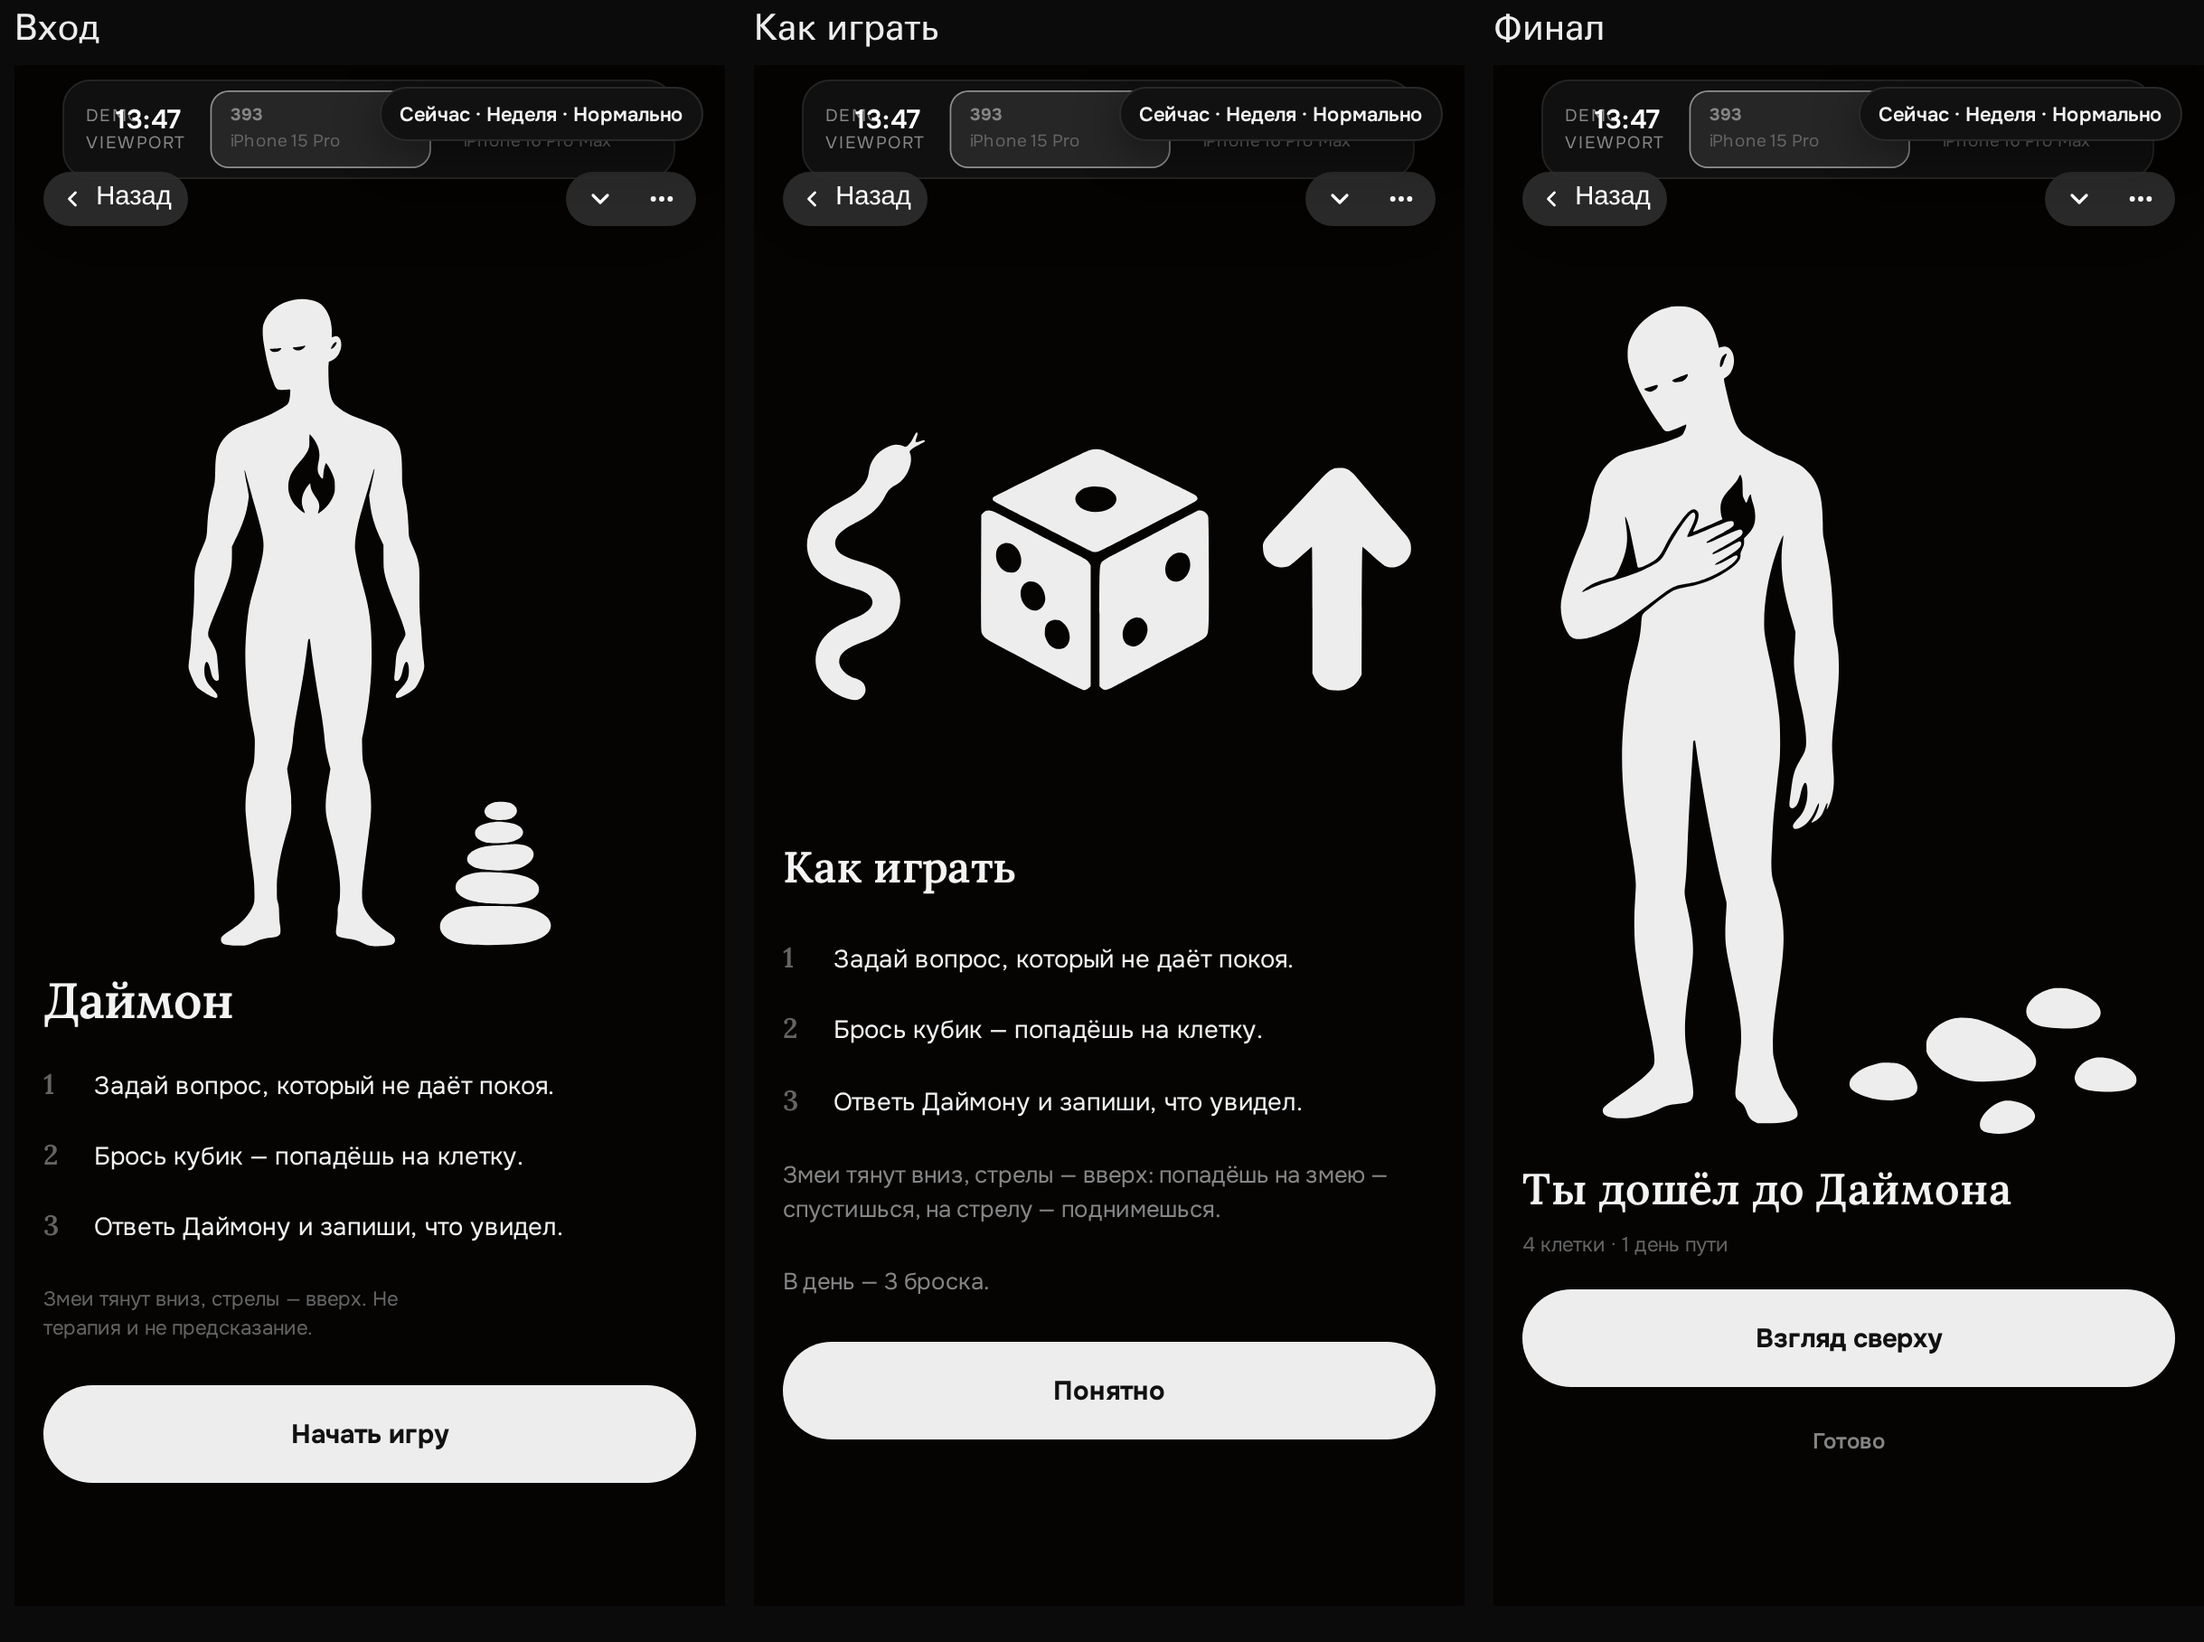
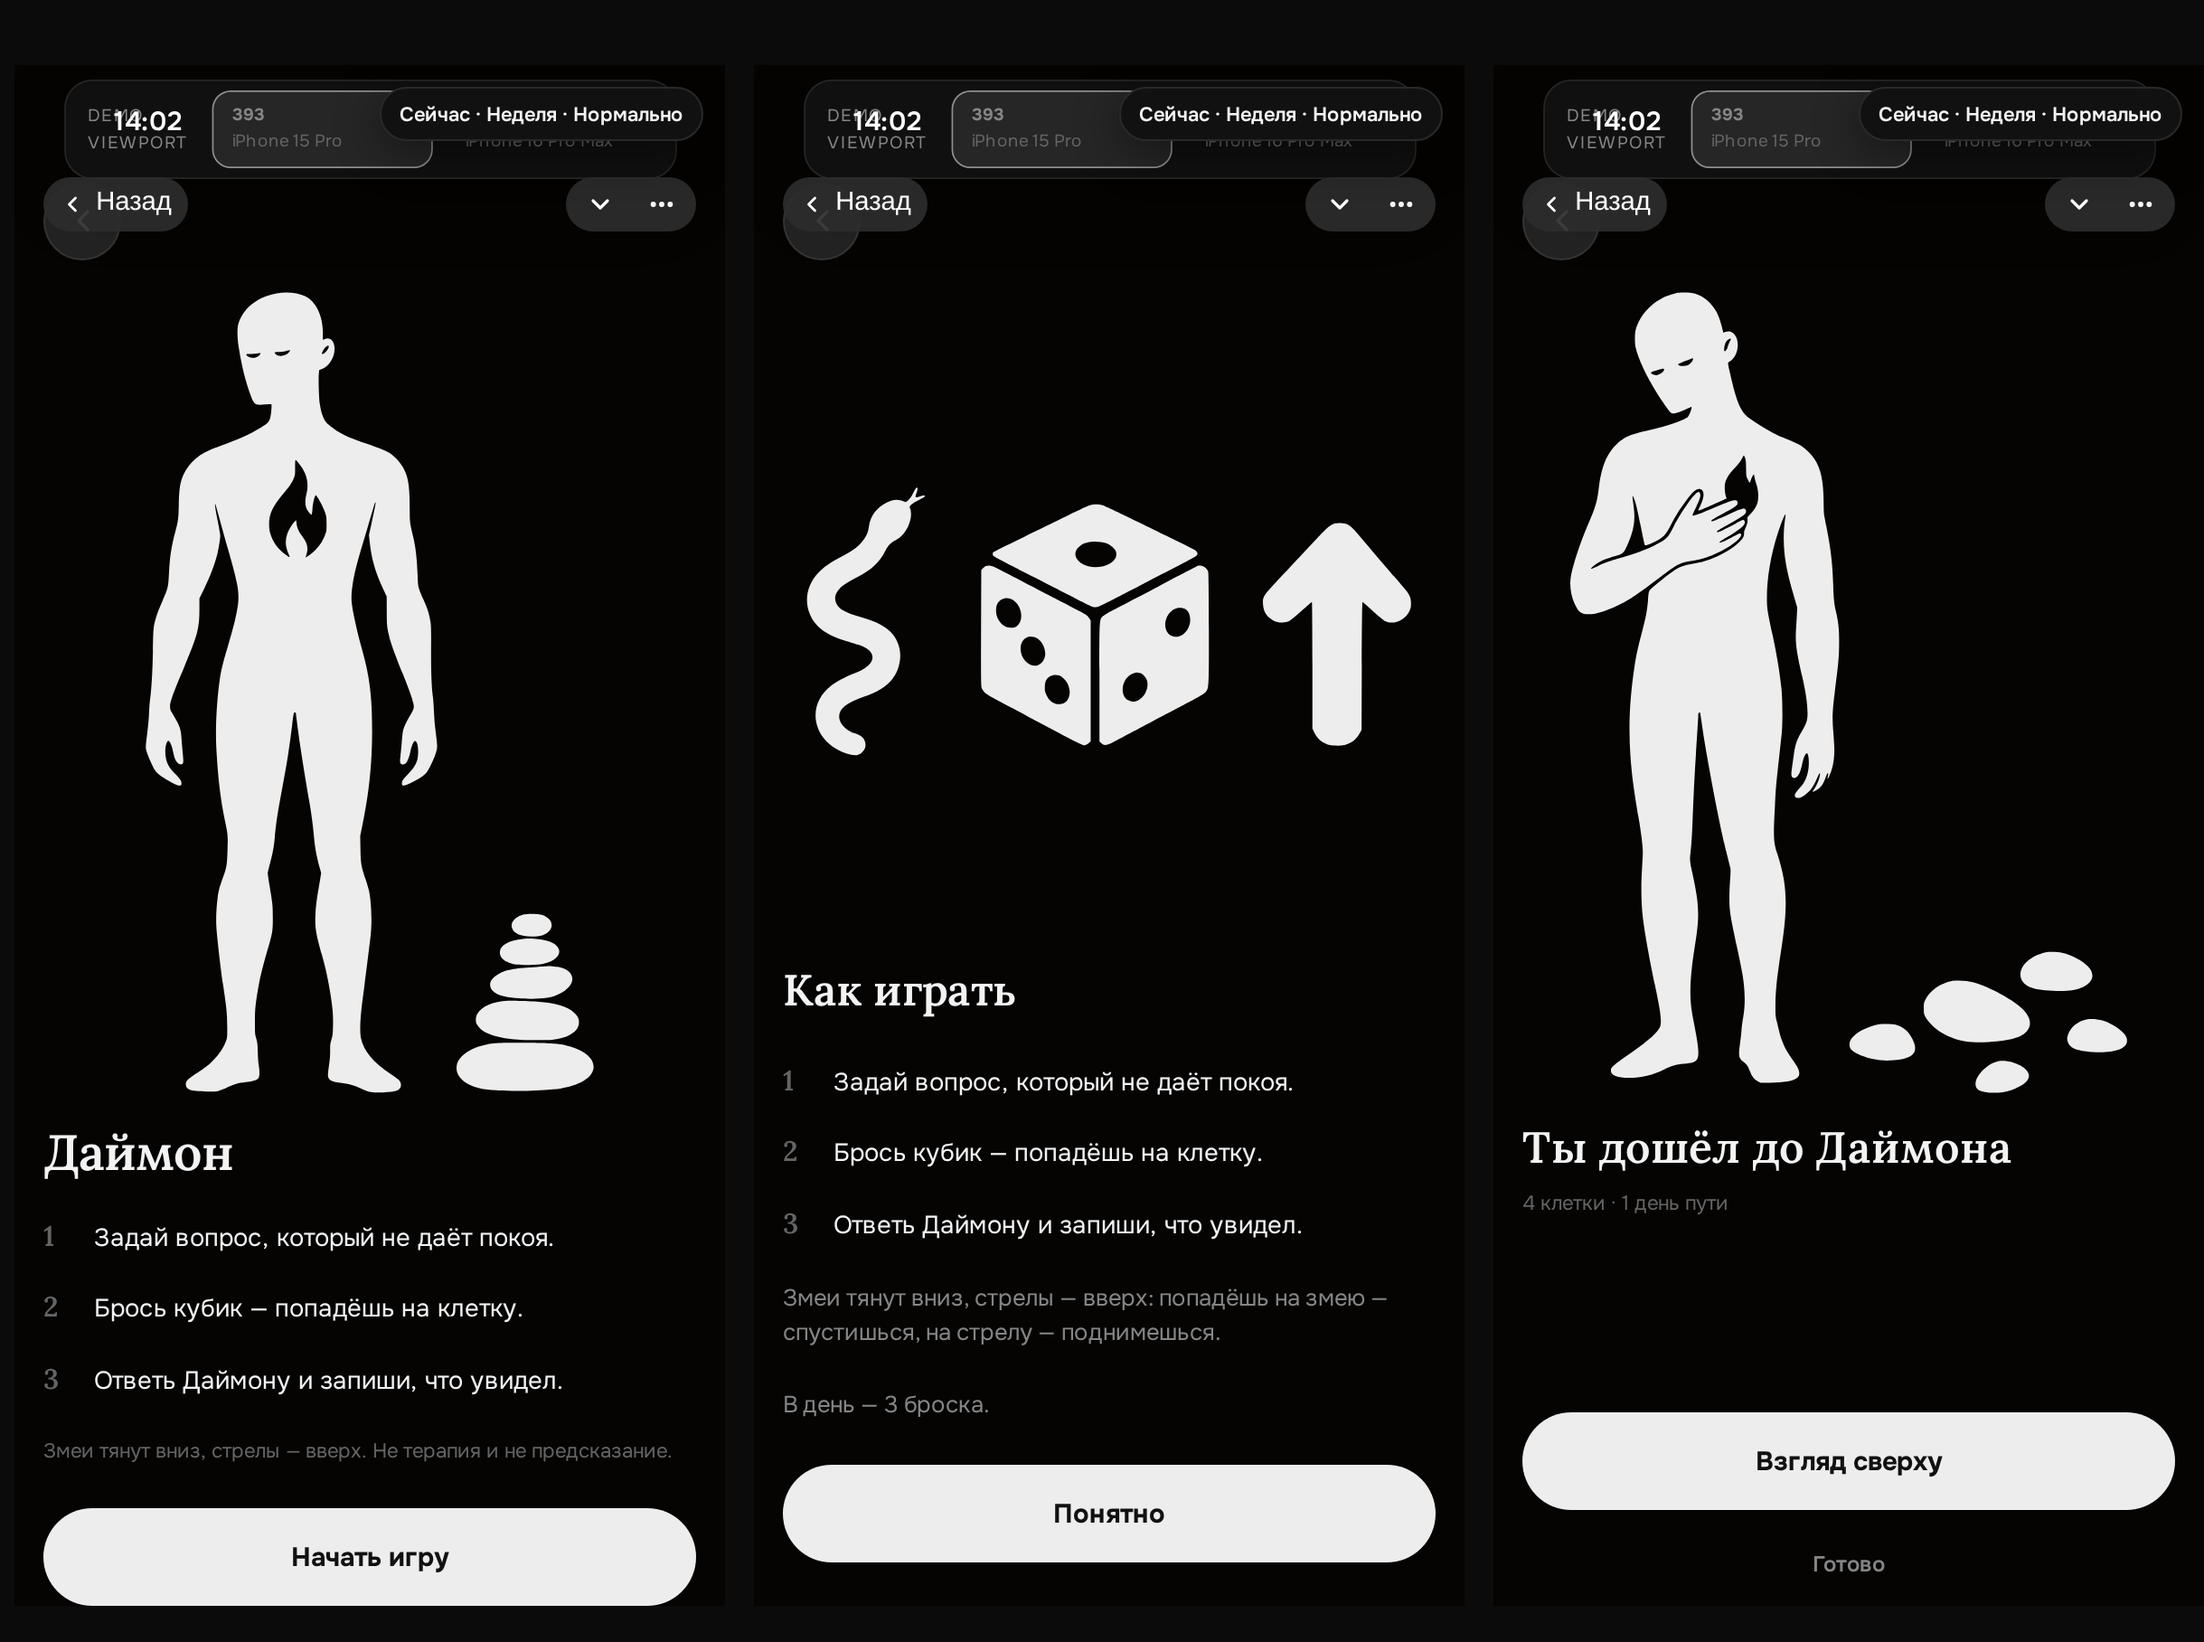
Иллюстрации: Ритуалы, Аскезы, совы Today, журнал

diff --git a/src/screens/Daimon/DaimonFlow.css b/src/screens/Daimon/DaimonFlow.css
@@ -45,7 +45,6 @@
   line-height: 1.45;
   color: rgb(var(--c-faint));
   margin-top: var(--mx-space-5);
-  max-width: 34ch;
 }
 
 .mx-daimon-intro__actions {
@@ -942,12 +941,20 @@
   min-height: 0;
 }
 
+/* Финальный арт шире, чем арт входа (viewBox 1198.6×1668.6 против
+   1057.08×1783.08), поэтому по ширине фигура рисовалась крупнее. Ограничиваем
+   высоту слота той же свободной высотой, что остаётся у входа после шапки и
+   текстового блока — заголовок, три шага, подпись «Змеи тянут вниз…» и кнопка
+   занимают 266 px при телефонной ширине. Фигура получает тот же масштаб, что на
+   входе, а заголовок не уезжает вниз: остаток свободной высоты забирает
+   нижний блок действий (margin-top: auto). */
 .mx-daimon-finish__art {
   display: flex;
   align-items: center;
   justify-content: center;
   flex: 1 1 0;
   min-height: 0;
+  max-height: calc(100% - 266px);
 }
 
 .mx-daimon-finish__art svg {
